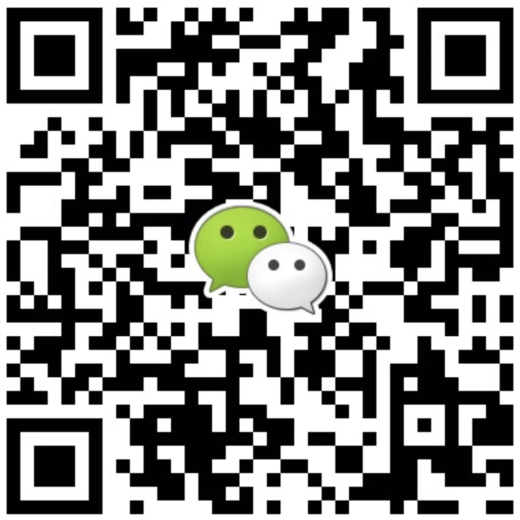
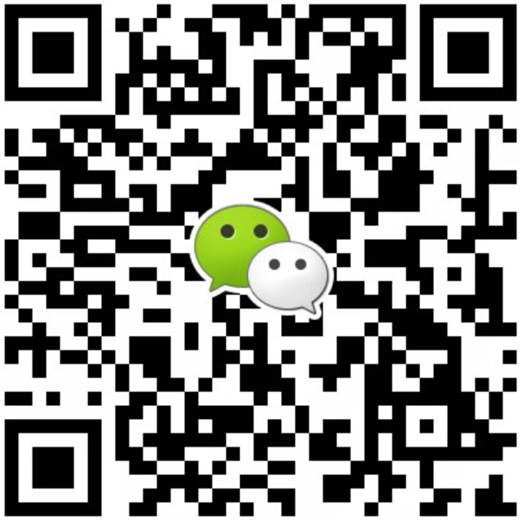
更新微信号及对应的二维码

diff --git a/static/js/app.131363795b43f534e2b9.js b/static/js/app.131363795b43f534e2b9.js
@@ -1,2 +1,2 @@
-webpackJsonp([1],{"8NrM":function(t,i){},A7L2:function(t,i,e){t.exports=e.p+"static/img/KL_01_login.1f03a32.jpg"},AXKg:function(t,i,e){t.exports=e.p+"static/img/DU_table.50edb83.png"},HbhM:function(t,i,e){t.exports=e.p+"static/img/KL_03_tag.fcb6e4c.jpg"},NFZJ:function(t,i){},NHnr:function(t,i,e){"use strict";Object.defineProperty(i,"__esModule",{value:!0});var s=e("7+uW"),a={render:function(){var t=this.$createElement,i=this._self._c||t;return i("div",{attrs:{id:"app"}},[i("router-view")],1)},staticRenderFns:[]};var n=e("VU/8")({name:"App"},a,!1,function(t){e("QZVJ")},null,null).exports,c=e("/ocq"),r=e("mvHQ"),o=e.n(r),l=e("Dd8w"),_=e.n(l),v={props:{value:{type:Boolean,default:!1}},methods:{toggle:function(){this.$emit("switch",!this.value)}}},d={render:function(){var t=this.$createElement,i=this._self._c||t;return i("div",{class:["switch-container",{"switch-container-on":this.value}],on:{click:this.toggle}},[i("span",{class:["inner",{"inner-on":this.value}]}),this._v(" "),i("span",{class:["switch",{"switch-on":this.value}]})])},staticRenderFns:[]};var p=e("VU/8")(v,d,!1,function(t){e("8NrM")},"data-v-04284670",null).exports,u={render:function(){var t=this,i=t.$createElement,e=t._self._c||i;return e("div",{staticClass:"preview"},[e("div",{staticClass:"picture_box"},[e("div",{staticClass:"small_img"},[e("img",{attrs:{src:t.pictures[t.preview_index]}}),t._v(" "),e("i",{staticClass:"search"}),t._v(" "),e("span",{staticClass:"focus",style:t.focus_style})]),t._v(" "),e("div",{staticClass:"mask",on:{mouseenter:function(i){return t.show_big_picture()},mousemove:function(i){return i.stopPropagation(),t.focus_picutre(i)},mouseleave:function(i){return t.hide_big_picture()}}}),t._v(" "),e("div",{class:["big_img",{active:t.big_active}]},[e("img",{ref:"big",style:t.big_style,attrs:{src:t.pictures[t.preview_index]}})])]),t._v(" "),e("div",{staticClass:"list_img"},[e("a",[e("i",{class:["sprite_prev",{active:t.pictures.length>5&&t.list_index>0}],on:{click:t.list_prev}})]),t._v(" "),e("a",[e("i",{class:["sprite_next",{active:t.pictures.length>5&&t.pictures.length-t.list_index-5>0}],on:{click:t.list_next}})]),t._v(" "),e("div",{staticClass:"list_center"},[e("ul",{style:"left:"+-58*t.list_index+"px;"},t._l(t.pictures,function(i,s){return e("li",{key:s,class:{active:s==t.preview_index},on:{mouseover:function(i){return t.switch_picture(s)}}},[e("img",{attrs:{src:i}})])}),0)])])])},staticRenderFns:[]};var h=e("VU/8")({props:{src:{default:[]}},computed:{pictures:function(){return this.src},focus_style:function(){return{top:this.focus_top+"px",left:this.focus_left+"px"}},big_style:function(){return{top:this.big_top+"px",left:this.big_left+"px",zoom:this.zoom}}},data:function(){return{show_detail:!1,preview_index:0,big_active:!1,focus_top:-999,focus_left:-999,FOCUS_SIZE:160,SMALL_SIZE:350,BIG_SIZE:540,big_top:0,big_left:0,zoom:1,list_index:0}},methods:{switch_picture:function(t){this.preview_index=t},show_big_picture:function(){this.big_active=!0},hide_big_picture:function(){this.big_active=!1,this.focus_left=-999,this.focus_top=-999},focus_picutre:function(t){var i=t.target.scrollWidth,e=t.target.scrollHeight,s=t.target.scrollLeft,a=t.target.scrollTop,n=this.$refs.big.width,c=this.$refs.big.height,r=n>c?n:c,o=n>c?0:(c-n)/2,l=n>c?(n-c)/2:0,_=this.FOCUS_SIZE+2,v=t.layerX-_/2;v<s?v=s:v+_>i&&(v=i-_);var d=t.layerY-_/2;d<a?d=a:d+_>e&&(d=e-_),this.focus_left=v,this.focus_top=d,this.big_left=-v/i*r+o,this.big_top=-d/e*r+l,this.zoom=this.BIG_SIZE*this.SMALL_SIZE/this.FOCUS_SIZE/r},list_prev:function(){this.pictures.length<=5||0==this.list_index||(this.list_index>=5?this.list_index-=5:this.list_index=0)},list_next:function(){var t=this.pictures.length,i=t-this.list_index-5;t<=5||i<=0||(this.list_index+=i>=5?5:i)}}},u,!1,function(t){e("RZS2")},"data-v-a8120128",null).exports,f=e("A7L2"),m=e.n(f),g=e("hQar"),w=e.n(g),b=e("HbhM"),x=e.n(b),C=e("W41A"),y=e.n(C),k=e("nLt7"),j=e.n(k),L=e("OZrR"),S=e.n(L),M=e("AXKg"),E=e.n(M),Z={name:"resume",components:{my_switch:p,preview:h},data:function(){return{global_show:!0,personal:{name_cn:"翁鸿铨",name_pinyin:"wēng hóng quán",base_information:[{title:"年龄",icon:"man",content:"25岁"},{title:"出生年月",icon:"calendar",content:"1994-11"},{title:"籍贯",icon:"home",content:"福建晋江"},{title:"电话",icon:"phone",content:"+86 189-5993-9718"},{title:"补空"},{title:"邮箱",icon:"email",content:"chainhq@hotmail.com"},{title:"QQ",icon:"qq",content:"563394793"},{title:"微信",icon:"wechat",content:"yu563394793"}]},education_background:[{time:"目前",degree:"硕士拟录取",school:"中国科学技术大学",college:"先进技术研究院",major:"电子信息（软件工程方向）"},{time:"2012.09 - 2016.06",degree:"本科",school:"福建农林大学",college:"机电工程学院",major:"机械设计制造及其自动化"}],project_experience:[{title:"密码存储工具(web)",tag:"Django后端+Uni-App前端",link:"",brief:"总体代码量为前端5000，后端1000，目前可以在我系统的虚拟机中工作。",detail:"<div>这是研究生初试后我自学了Python和Vue，做的一个移动端的网页。</div><div>该网页的功能是：</div><div>允许用户自主选择账户信息下各条记录的分类并自主命名其标题；</div><div>允许用户上传该账户信息的logo图片并进行裁切调整；</div><div>允许用户为每个账户信息设置标签并根据标签进行筛选；</div><div>点击记录可复制至剪切板。</div><div>主界面选择模拟手机UI的“LOGO+标题”的方式来提供尽可能清晰且详尽的缩略图查询。</div>",pictures:[m.a,w.a,x.a,y.a,j.a,S.a]},{title:"Excel表单处理",tag:"工作期间做的一个VBA脚本",link:"",brief:"结构设计物料清单的处理脚本，总体代码量1000。",detail:"<div>实现SolidWorks导出的BOM表的处理、单零件耗材整理、相关工作电子表格的生成以及零部件图纸的归档存储。</div><div>把原本两个小时的处理时间缩短至十几秒。</div><div>同时大大降低物料用量的错误（通常是由于人为数错数目造成的）。</div>"},{title:"自走棋种族职业表",tag:"",link:"",brief:"针对自走棋游戏《Dota Underlords》制作的一个种族/职业交叉图表的生成工具，总体代码量1200。",detail:"<div>可以在几分钟内制作出最新版本的图表。</div><div>基于Excel，使用的语言为VBA。</div>",pictures:[E.a]},{title:"网页样式插件",tag:"",link:"https://userstyles.org/styles/178855/douyu-easy",brief:"在stylish上传了一个网页样式修改插件，修改的是douyu.com。",detail:"<div>去除页面内的广告和竞猜付费元素，提供给使用者一个纯粹的直播界面。</div><div>一月份上传至今累计下载量200+。</div>"}],work_experience:[{time:"2017.09 - 2018.09",company:"深圳市鑫信腾科技有限公司",job_title:"机械设计工程师",brief:"",detail:"智能手机自动测试设备及夹治具的结构设计。作为音频测试设备的主要设计负责人。工作期间销售额超过5000万。两次推动并完成音频测试夹治具的标准化及模块化工作。将单机型开发周期从2个工作日降低至0.5个工作日；将新机型夹治具设计出错从80%降低至20%以下。"},{time:"2016.07 - 2017.08",company:"通达（厦门）科技有限公司",job_title:"产品开发工程师",brief:"",detail:"苹果手机IP68级防水卡托橡胶注射成型的开发。主要负责打样现场跟进和跨部门协调工作。期间有连续半年的两班倒（9点-10点半）经历。"}]}},mounted:function(){this.project_experience=this.init_experience(this.project_experience),this.work_experience=this.init_experience(this.work_experience)},methods:{init_experience:function(t){for(var i=0;i<t.length;i++)t[i]=_()({},t[i],{show_detail:!0});return JSON.parse(o()(t))},global_switch:function(t){this.global_show=t;for(var i=0;i<this.project_experience.length;i++)this.$set(this.project_experience[i],"show_detail",t);for(var e=0;e<this.work_experience.length;e++)this.$set(this.work_experience[e],"show_detail",t)},switch_detail:function(t,i,e){var s=t[0];this[i][e].show_detail=s}}},A={render:function(){var t=this,i=t.$createElement,e=t._self._c||i;return e("div",{staticClass:"container"},[e("div",{staticClass:"global"},[e("div",[t._v("全局设置：")]),t._v(" "),e("my_switch",{staticStyle:{"align-self":"center"},attrs:{value:t.global_show},on:{switch:t.global_switch}})],1),t._v(" "),e("div",{staticClass:"title"},[e("div",{staticClass:"name"},[e("h4",{staticClass:"name_pinyin"},[t._v(t._s(t.personal.name_pinyin))]),t._v(" "),e("h1",{staticClass:"name_cn"},[t._v(t._s(t.personal.name_cn))])]),t._v(" "),e("div",{staticClass:"info"},[e("div",{staticClass:"context"},t._l(t.personal.base_information,function(i,s){return e("div",{key:s,class:["content","iconfont","icon-"+i.icon]},[t._v("\n\t\t\t\t\t"+t._s(i.content)+"\n\t\t\t\t")])}),0),t._v(" "),t._m(0),t._v(" "),t._m(1)])]),t._v(" "),e("h3",{staticClass:"classes_title"},[t._v("教育背景")]),t._v(" "),e("div",{staticClass:"education"},t._l(t.education_background,function(i,s){return e("div",{key:s,staticClass:"context"},[i.time?e("div",{staticClass:"time"},[t._v(t._s(i.time))]):t._e(),t._v(" "),i.degree?e("div",{staticClass:"degree"},[t._v(t._s(i.degree))]):t._e(),t._v(" "),i.school?e("div",{staticClass:"school"},[t._v(t._s(i.school))]):t._e(),t._v(" "),i.college?e("div",{staticClass:"college"},[t._v(t._s(i.college))]):t._e(),t._v(" "),i.major?e("div",{staticClass:"major"},[t._v(t._s(i.major))]):t._e()])}),0),t._v(" "),e("h3",{staticClass:"classes_title"},[t._v("项目经验")]),t._v(" "),e("div",{staticClass:"project"},t._l(t.project_experience,function(i,s){return e("div",{key:s,class:["context",{boundary:s}]},[e("div",{staticClass:"head"},[e("div",{staticClass:"head-context"},[e("h4",{staticClass:"title"},[t._v(t._s(i.title))]),t._v(" "),i.tag?e("div",{staticClass:"tag"},[t._v(t._s(i.tag))]):t._e(),t._v(" "),i.link?e("a",{staticClass:"link",attrs:{href:i.link}},[t._v(t._s(i.link))]):t._e()]),t._v(" "),i.brief&&i.detail?e("my_switch",{staticStyle:{"align-self":"center"},attrs:{value:i.show_detail},on:{switch:function(i){return t.switch_detail(arguments,"project_experience",s)}}}):t._e()],1),t._v(" "),!i.brief^!i.detail?e("div",[i.brief?e("div",{staticClass:"intro"},[t._v(t._s(i.brief))]):t._e(),t._v(" "),i.detail?e("div",{staticClass:"intro",domProps:{innerHTML:t._s(i.detail)}}):t._e()]):i.brief&&i.detail&&!i.pictures?e("div",[e("div",{staticClass:"brief"},[t._v(t._s(i.brief))]),t._v(" "),e("div",{directives:[{name:"show",rawName:"v-show",value:i.show_detail,expression:"item.show_detail"}],staticClass:"detail",domProps:{innerHTML:t._s(i.detail)}})]):i.brief&&i.detail&&i.pictures?e("div",[e("div",{staticClass:"brief"},[t._v(t._s(i.brief))]),t._v(" "),e("div",{directives:[{name:"show",rawName:"v-show",value:i.show_detail,expression:"item.show_detail"}],staticClass:"detail_box"},[e("preview",{attrs:{src:i.pictures}}),t._v(" "),e("div",{staticClass:"detail",domProps:{innerHTML:t._s(i.detail)}})],1)]):t._e()])}),0),t._v(" "),e("h3",{staticClass:"classes_title"},[t._v("工作经历")]),t._v(" "),e("div",{staticClass:"work"},t._l(t.work_experience,function(i,s){return e("div",{key:s,class:["context",{boundary:s}]},[e("div",{staticClass:"head"},[e("div",{staticClass:"head-context"},[i.job_title?e("h4",{staticClass:"title"},[t._v(t._s(i.job_title))]):t._e(),t._v(" "),i.time?e("div",{staticClass:"time"},[t._v(t._s(i.time))]):t._e(),t._v(" "),i.company?e("div",{staticClass:"company"},[t._v(t._s(i.company))]):t._e()]),t._v(" "),i.brief&&i.detail?e("my_switch",{staticStyle:{"align-self":"center"},attrs:{value:i.show_detail},on:{switch:function(i){return t.change(arguments,"work_experience",s)}}}):t._e()],1),t._v(" "),!i.brief^!i.detail?e("div",[i.brief?e("div",{staticClass:"intro"},[t._v(t._s(i.brief))]):t._e(),t._v(" "),i.detail?e("div",{staticClass:"intro",domProps:{innerHTML:t._s(i.detail)}}):t._e()]):i.brief&&i.detail&&!i.pictures?e("div",[e("div",{staticClass:"brief"},[t._v(t._s(i.brief))]),t._v(" "),e("div",{directives:[{name:"show",rawName:"v-show",value:i.show_detail,expression:"item.show_detail"}],staticClass:"detail",domProps:{innerHTML:t._s(i.detail)}})]):i.brief&&i.detail&&i.pictures?e("div",[e("div",{staticClass:"brief"},[t._v(t._s(i.brief))]),t._v(" "),e("div",{directives:[{name:"show",rawName:"v-show",value:i.show_detail,expression:"item.show_detail"}],staticClass:"detail_box"},[e("preview",{attrs:{src:i.pictures}}),t._v(" "),e("div",{staticClass:"detail",domProps:{innerHTML:t._s(i.detail)}})],1)]):t._e()])}),0)])},staticRenderFns:[function(){var t=this.$createElement,i=this._self._c||t;return i("div",{staticClass:"QRcode"},[i("img",{attrs:{src:e("rpJM")}}),this._v("QQ")])},function(){var t=this.$createElement,i=this._self._c||t;return i("div",{staticClass:"QRcode"},[i("img",{attrs:{src:e("oB+8")}}),this._v("微信")])}]};var Q=e("VU/8")(Z,A,!1,function(t){e("NFZJ")},"data-v-6e17721f",null).exports;s.a.use(c.a);var H=new c.a({mode:"history",routes:[{path:"/",name:"resume",component:Q}]});e("muQq");s.a.config.productionTip=!1,new s.a({el:"#app",router:H,components:{App:n},template:"<App/>"})},OZrR:function(t,i,e){t.exports=e.p+"static/img/KL_06_edit.a5b7a4e.jpg"},QZVJ:function(t,i){},RZS2:function(t,i){},W41A:function(t,i,e){t.exports=e.p+"static/img/KL_04_filter.42c2a9e.jpg"},hQar:function(t,i,e){t.exports=e.p+"static/img/KL_02_thumbnail.8cc4699.jpg"},muQq:function(t,i){},nLt7:function(t,i,e){t.exports=e.p+"static/img/KL_05_detail.2ed793a.jpg"},"oB+8":function(t,i,e){t.exports=e.p+"static/img/wechat.f269a43.png"},rpJM:function(t,i,e){t.exports=e.p+"static/img/qq.d96600f.png"}},["NHnr"]);
+webpackJsonp([1],{"8NrM":function(t,i){},A7L2:function(t,i,e){t.exports=e.p+"static/img/KL_01_login.1f03a32.jpg"},AXKg:function(t,i,e){t.exports=e.p+"static/img/DU_table.50edb83.png"},HbhM:function(t,i,e){t.exports=e.p+"static/img/KL_03_tag.fcb6e4c.jpg"},NFZJ:function(t,i){},NHnr:function(t,i,e){"use strict";Object.defineProperty(i,"__esModule",{value:!0});var s=e("7+uW"),a={render:function(){var t=this.$createElement,i=this._self._c||t;return i("div",{attrs:{id:"app"}},[i("router-view")],1)},staticRenderFns:[]};var n=e("VU/8")({name:"App"},a,!1,function(t){e("QZVJ")},null,null).exports,c=e("/ocq"),r=e("mvHQ"),o=e.n(r),l=e("Dd8w"),_=e.n(l),v={props:{value:{type:Boolean,default:!1}},methods:{toggle:function(){this.$emit("switch",!this.value)}}},d={render:function(){var t=this.$createElement,i=this._self._c||t;return i("div",{class:["switch-container",{"switch-container-on":this.value}],on:{click:this.toggle}},[i("span",{class:["inner",{"inner-on":this.value}]}),this._v(" "),i("span",{class:["switch",{"switch-on":this.value}]})])},staticRenderFns:[]};var p=e("VU/8")(v,d,!1,function(t){e("8NrM")},"data-v-04284670",null).exports,u={render:function(){var t=this,i=t.$createElement,e=t._self._c||i;return e("div",{staticClass:"preview"},[e("div",{staticClass:"picture_box"},[e("div",{staticClass:"small_img"},[e("img",{attrs:{src:t.pictures[t.preview_index]}}),t._v(" "),e("i",{staticClass:"search"}),t._v(" "),e("span",{staticClass:"focus",style:t.focus_style})]),t._v(" "),e("div",{staticClass:"mask",on:{mouseenter:function(i){return t.show_big_picture()},mousemove:function(i){return i.stopPropagation(),t.focus_picutre(i)},mouseleave:function(i){return t.hide_big_picture()}}}),t._v(" "),e("div",{class:["big_img",{active:t.big_active}]},[e("img",{ref:"big",style:t.big_style,attrs:{src:t.pictures[t.preview_index]}})])]),t._v(" "),e("div",{staticClass:"list_img"},[e("a",[e("i",{class:["sprite_prev",{active:t.pictures.length>5&&t.list_index>0}],on:{click:t.list_prev}})]),t._v(" "),e("a",[e("i",{class:["sprite_next",{active:t.pictures.length>5&&t.pictures.length-t.list_index-5>0}],on:{click:t.list_next}})]),t._v(" "),e("div",{staticClass:"list_center"},[e("ul",{style:"left:"+-58*t.list_index+"px;"},t._l(t.pictures,function(i,s){return e("li",{key:s,class:{active:s==t.preview_index},on:{mouseover:function(i){return t.switch_picture(s)}}},[e("img",{attrs:{src:i}})])}),0)])])])},staticRenderFns:[]};var h=e("VU/8")({props:{src:{default:[]}},computed:{pictures:function(){return this.src},focus_style:function(){return{top:this.focus_top+"px",left:this.focus_left+"px"}},big_style:function(){return{top:this.big_top+"px",left:this.big_left+"px",zoom:this.zoom}}},data:function(){return{show_detail:!1,preview_index:0,big_active:!1,focus_top:-999,focus_left:-999,FOCUS_SIZE:160,SMALL_SIZE:350,BIG_SIZE:540,big_top:0,big_left:0,zoom:1,list_index:0}},methods:{switch_picture:function(t){this.preview_index=t},show_big_picture:function(){this.big_active=!0},hide_big_picture:function(){this.big_active=!1,this.focus_left=-999,this.focus_top=-999},focus_picutre:function(t){var i=t.target.scrollWidth,e=t.target.scrollHeight,s=t.target.scrollLeft,a=t.target.scrollTop,n=this.$refs.big.width,c=this.$refs.big.height,r=n>c?n:c,o=n>c?0:(c-n)/2,l=n>c?(n-c)/2:0,_=this.FOCUS_SIZE+2,v=t.layerX-_/2;v<s?v=s:v+_>i&&(v=i-_);var d=t.layerY-_/2;d<a?d=a:d+_>e&&(d=e-_),this.focus_left=v,this.focus_top=d,this.big_left=-v/i*r+o,this.big_top=-d/e*r+l,this.zoom=this.BIG_SIZE*this.SMALL_SIZE/this.FOCUS_SIZE/r},list_prev:function(){this.pictures.length<=5||0==this.list_index||(this.list_index>=5?this.list_index-=5:this.list_index=0)},list_next:function(){var t=this.pictures.length,i=t-this.list_index-5;t<=5||i<=0||(this.list_index+=i>=5?5:i)}}},u,!1,function(t){e("RZS2")},"data-v-a8120128",null).exports,f=e("A7L2"),m=e.n(f),g=e("hQar"),w=e.n(g),b=e("HbhM"),x=e.n(b),C=e("W41A"),y=e.n(C),k=e("nLt7"),j=e.n(k),L=e("OZrR"),S=e.n(L),M=e("AXKg"),E=e.n(M),Z={name:"resume",components:{my_switch:p,preview:h},data:function(){return{global_show:!0,personal:{name_cn:"翁鸿铨",name_pinyin:"wēng hóng quán",base_information:[{title:"年龄",icon:"man",content:"25岁"},{title:"出生年月",icon:"calendar",content:"1994-11"},{title:"籍贯",icon:"home",content:"福建晋江"},{title:"电话",icon:"phone",content:"+86 189-5993-9718"},{title:"补空"},{title:"邮箱",icon:"email",content:"chainhq@hotmail.com"},{title:"QQ",icon:"qq",content:"563394793"},{title:"微信",icon:"wechat",content:"ceremosia"}]},education_background:[{time:"目前",degree:"硕士拟录取",school:"中国科学技术大学",college:"先进技术研究院",major:"电子信息（软件工程方向）"},{time:"2012.09 - 2016.06",degree:"本科",school:"福建农林大学",college:"机电工程学院",major:"机械设计制造及其自动化"}],project_experience:[{title:"密码存储工具(web)",tag:"Django后端+Uni-App前端",link:"",brief:"总体代码量为前端5000，后端1000，目前可以在我系统的虚拟机中工作。",detail:"<div>这是研究生初试后我自学了Python和Vue，做的一个移动端的网页。</div><div>该网页的功能是：</div><div>允许用户自主选择账户信息下各条记录的分类并自主命名其标题；</div><div>允许用户上传该账户信息的logo图片并进行裁切调整；</div><div>允许用户为每个账户信息设置标签并根据标签进行筛选；</div><div>点击记录可复制至剪切板。</div><div>主界面选择模拟手机UI的“LOGO+标题”的方式来提供尽可能清晰且详尽的缩略图查询。</div>",pictures:[m.a,w.a,x.a,y.a,j.a,S.a]},{title:"Excel表单处理",tag:"工作期间做的一个VBA脚本",link:"",brief:"结构设计物料清单的处理脚本，总体代码量1000。",detail:"<div>实现SolidWorks导出的BOM表的处理、单零件耗材整理、相关工作电子表格的生成以及零部件图纸的归档存储。</div><div>把原本两个小时的处理时间缩短至十几秒。</div><div>同时大大降低物料用量的错误（通常是由于人为数错数目造成的）。</div>"},{title:"自走棋种族职业表",tag:"",link:"",brief:"针对自走棋游戏《Dota Underlords》制作的一个种族/职业交叉图表的生成工具，总体代码量1200。",detail:"<div>可以在几分钟内制作出最新版本的图表。</div><div>基于Excel，使用的语言为VBA。</div>",pictures:[E.a]},{title:"网页样式插件",tag:"",link:"https://userstyles.org/styles/178855/douyu-easy",brief:"在stylish上传了一个网页样式修改插件，修改的是douyu.com。",detail:"<div>去除页面内的广告和竞猜付费元素，提供给使用者一个纯粹的直播界面。</div><div>一月份上传至今累计下载量200+。</div>"}],work_experience:[{time:"2017.09 - 2018.09",company:"深圳市鑫信腾科技有限公司",job_title:"机械设计工程师",brief:"",detail:"智能手机自动测试设备及夹治具的结构设计。作为音频测试设备的主要设计负责人。工作期间销售额超过5000万。两次推动并完成音频测试夹治具的标准化及模块化工作。将单机型开发周期从2个工作日降低至0.5个工作日；将新机型夹治具设计出错从80%降低至20%以下。"},{time:"2016.07 - 2017.08",company:"通达（厦门）科技有限公司",job_title:"产品开发工程师",brief:"",detail:"苹果手机IP68级防水卡托橡胶注射成型的开发。主要负责打样现场跟进和跨部门协调工作。期间有连续半年的两班倒（9点-10点半）经历。"}]}},mounted:function(){this.project_experience=this.init_experience(this.project_experience),this.work_experience=this.init_experience(this.work_experience)},methods:{init_experience:function(t){for(var i=0;i<t.length;i++)t[i]=_()({},t[i],{show_detail:!0});return JSON.parse(o()(t))},global_switch:function(t){this.global_show=t;for(var i=0;i<this.project_experience.length;i++)this.$set(this.project_experience[i],"show_detail",t);for(var e=0;e<this.work_experience.length;e++)this.$set(this.work_experience[e],"show_detail",t)},switch_detail:function(t,i,e){var s=t[0];this[i][e].show_detail=s}}},A={render:function(){var t=this,i=t.$createElement,e=t._self._c||i;return e("div",{staticClass:"container"},[e("div",{staticClass:"global"},[e("div",[t._v("全局设置：")]),t._v(" "),e("my_switch",{staticStyle:{"align-self":"center"},attrs:{value:t.global_show},on:{switch:t.global_switch}})],1),t._v(" "),e("div",{staticClass:"title"},[e("div",{staticClass:"name"},[e("h4",{staticClass:"name_pinyin"},[t._v(t._s(t.personal.name_pinyin))]),t._v(" "),e("h1",{staticClass:"name_cn"},[t._v(t._s(t.personal.name_cn))])]),t._v(" "),e("div",{staticClass:"info"},[e("div",{staticClass:"context"},t._l(t.personal.base_information,function(i,s){return e("div",{key:s,class:["content","iconfont","icon-"+i.icon]},[t._v("\n\t\t\t\t\t"+t._s(i.content)+"\n\t\t\t\t")])}),0),t._v(" "),t._m(0),t._v(" "),t._m(1)])]),t._v(" "),e("h3",{staticClass:"classes_title"},[t._v("教育背景")]),t._v(" "),e("div",{staticClass:"education"},t._l(t.education_background,function(i,s){return e("div",{key:s,staticClass:"context"},[i.time?e("div",{staticClass:"time"},[t._v(t._s(i.time))]):t._e(),t._v(" "),i.degree?e("div",{staticClass:"degree"},[t._v(t._s(i.degree))]):t._e(),t._v(" "),i.school?e("div",{staticClass:"school"},[t._v(t._s(i.school))]):t._e(),t._v(" "),i.college?e("div",{staticClass:"college"},[t._v(t._s(i.college))]):t._e(),t._v(" "),i.major?e("div",{staticClass:"major"},[t._v(t._s(i.major))]):t._e()])}),0),t._v(" "),e("h3",{staticClass:"classes_title"},[t._v("项目经验")]),t._v(" "),e("div",{staticClass:"project"},t._l(t.project_experience,function(i,s){return e("div",{key:s,class:["context",{boundary:s}]},[e("div",{staticClass:"head"},[e("div",{staticClass:"head-context"},[e("h4",{staticClass:"title"},[t._v(t._s(i.title))]),t._v(" "),i.tag?e("div",{staticClass:"tag"},[t._v(t._s(i.tag))]):t._e(),t._v(" "),i.link?e("a",{staticClass:"link",attrs:{href:i.link}},[t._v(t._s(i.link))]):t._e()]),t._v(" "),i.brief&&i.detail?e("my_switch",{staticStyle:{"align-self":"center"},attrs:{value:i.show_detail},on:{switch:function(i){return t.switch_detail(arguments,"project_experience",s)}}}):t._e()],1),t._v(" "),!i.brief^!i.detail?e("div",[i.brief?e("div",{staticClass:"intro"},[t._v(t._s(i.brief))]):t._e(),t._v(" "),i.detail?e("div",{staticClass:"intro",domProps:{innerHTML:t._s(i.detail)}}):t._e()]):i.brief&&i.detail&&!i.pictures?e("div",[e("div",{staticClass:"brief"},[t._v(t._s(i.brief))]),t._v(" "),e("div",{directives:[{name:"show",rawName:"v-show",value:i.show_detail,expression:"item.show_detail"}],staticClass:"detail",domProps:{innerHTML:t._s(i.detail)}})]):i.brief&&i.detail&&i.pictures?e("div",[e("div",{staticClass:"brief"},[t._v(t._s(i.brief))]),t._v(" "),e("div",{directives:[{name:"show",rawName:"v-show",value:i.show_detail,expression:"item.show_detail"}],staticClass:"detail_box"},[e("preview",{attrs:{src:i.pictures}}),t._v(" "),e("div",{staticClass:"detail",domProps:{innerHTML:t._s(i.detail)}})],1)]):t._e()])}),0),t._v(" "),e("h3",{staticClass:"classes_title"},[t._v("工作经历")]),t._v(" "),e("div",{staticClass:"work"},t._l(t.work_experience,function(i,s){return e("div",{key:s,class:["context",{boundary:s}]},[e("div",{staticClass:"head"},[e("div",{staticClass:"head-context"},[i.job_title?e("h4",{staticClass:"title"},[t._v(t._s(i.job_title))]):t._e(),t._v(" "),i.time?e("div",{staticClass:"time"},[t._v(t._s(i.time))]):t._e(),t._v(" "),i.company?e("div",{staticClass:"company"},[t._v(t._s(i.company))]):t._e()]),t._v(" "),i.brief&&i.detail?e("my_switch",{staticStyle:{"align-self":"center"},attrs:{value:i.show_detail},on:{switch:function(i){return t.change(arguments,"work_experience",s)}}}):t._e()],1),t._v(" "),!i.brief^!i.detail?e("div",[i.brief?e("div",{staticClass:"intro"},[t._v(t._s(i.brief))]):t._e(),t._v(" "),i.detail?e("div",{staticClass:"intro",domProps:{innerHTML:t._s(i.detail)}}):t._e()]):i.brief&&i.detail&&!i.pictures?e("div",[e("div",{staticClass:"brief"},[t._v(t._s(i.brief))]),t._v(" "),e("div",{directives:[{name:"show",rawName:"v-show",value:i.show_detail,expression:"item.show_detail"}],staticClass:"detail",domProps:{innerHTML:t._s(i.detail)}})]):i.brief&&i.detail&&i.pictures?e("div",[e("div",{staticClass:"brief"},[t._v(t._s(i.brief))]),t._v(" "),e("div",{directives:[{name:"show",rawName:"v-show",value:i.show_detail,expression:"item.show_detail"}],staticClass:"detail_box"},[e("preview",{attrs:{src:i.pictures}}),t._v(" "),e("div",{staticClass:"detail",domProps:{innerHTML:t._s(i.detail)}})],1)]):t._e()])}),0)])},staticRenderFns:[function(){var t=this.$createElement,i=this._self._c||t;return i("div",{staticClass:"QRcode"},[i("img",{attrs:{src:e("rpJM")}}),this._v("QQ")])},function(){var t=this.$createElement,i=this._self._c||t;return i("div",{staticClass:"QRcode"},[i("img",{attrs:{src:e("oB+8")}}),this._v("微信")])}]};var Q=e("VU/8")(Z,A,!1,function(t){e("NFZJ")},"data-v-6e17721f",null).exports;s.a.use(c.a);var H=new c.a({mode:"history",routes:[{path:"/",name:"resume",component:Q}]});e("muQq");s.a.config.productionTip=!1,new s.a({el:"#app",router:H,components:{App:n},template:"<App/>"})},OZrR:function(t,i,e){t.exports=e.p+"static/img/KL_06_edit.a5b7a4e.jpg"},QZVJ:function(t,i){},RZS2:function(t,i){},W41A:function(t,i,e){t.exports=e.p+"static/img/KL_04_filter.42c2a9e.jpg"},hQar:function(t,i,e){t.exports=e.p+"static/img/KL_02_thumbnail.8cc4699.jpg"},muQq:function(t,i){},nLt7:function(t,i,e){t.exports=e.p+"static/img/KL_05_detail.2ed793a.jpg"},"oB+8":function(t,i,e){t.exports=e.p+"static/img/wechat.f269a43.png"},rpJM:function(t,i,e){t.exports=e.p+"static/img/qq.d96600f.png"}},["NHnr"]);
 //# sourceMappingURL=app.131363795b43f534e2b9.js.map
